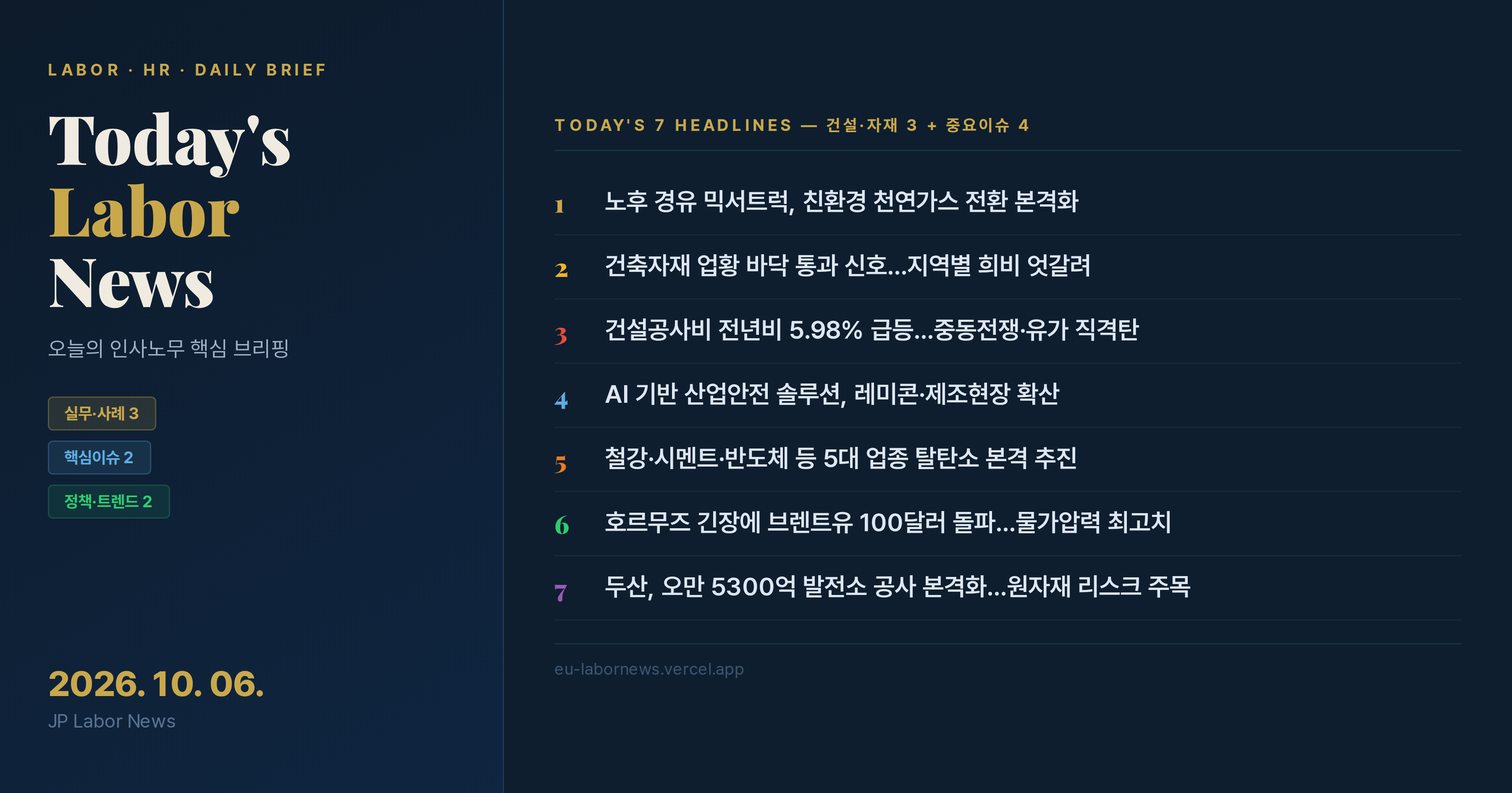
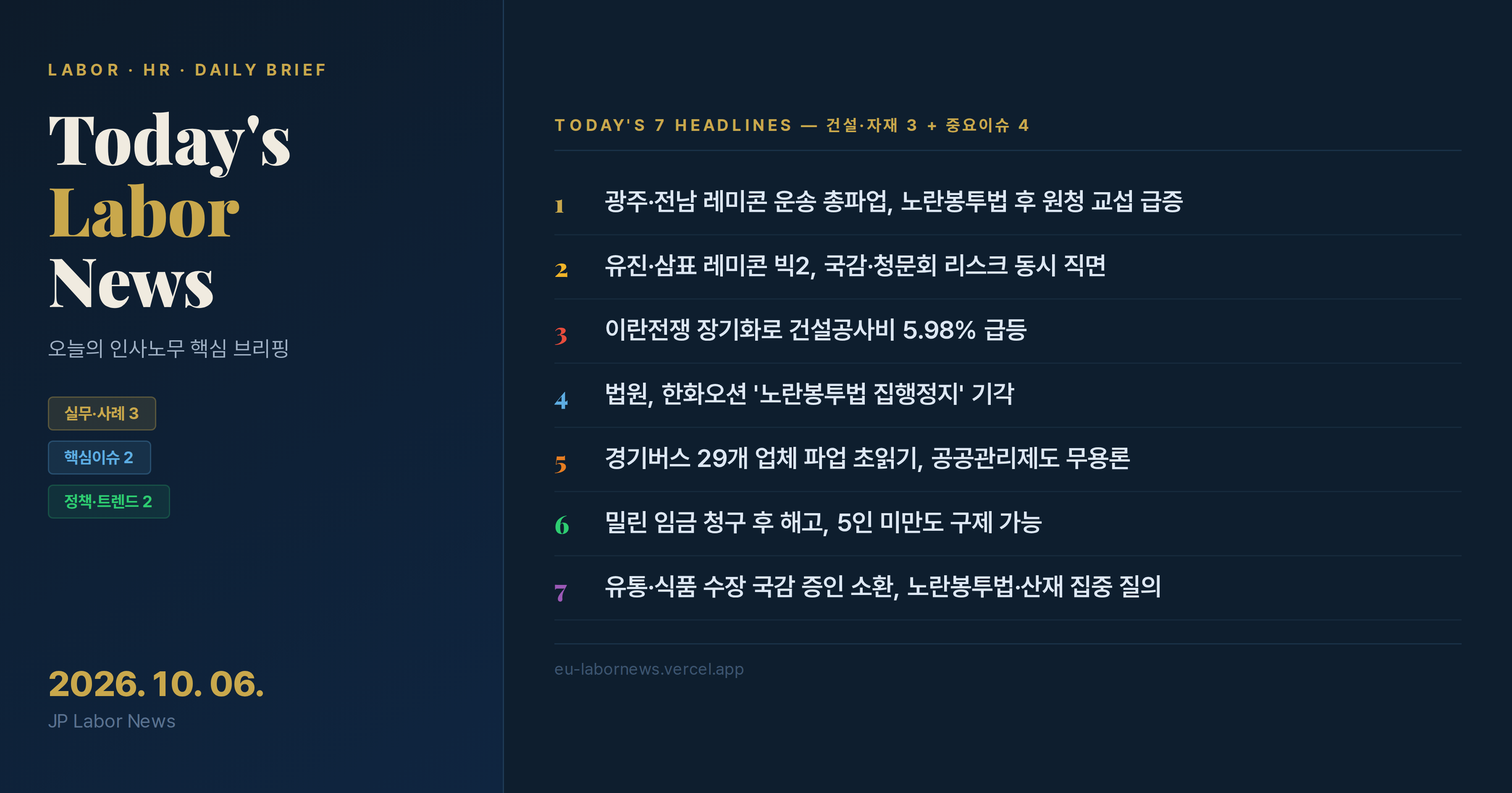
Auto: 20261006 텔레그램 카드뉴스 자동 생성

diff --git a/20261006/labornews_con_20261006.html b/20261006/labornews_con_20261006.html
@@ -111,51 +111,51 @@ body{background:var(--navy);color:var(--text-body);font-family:'Apple SD Gothic 
   <div class="headline-list"><a class="headline-item" href="#news1">
   <div class="headline-num">1</div>
   <div class="headline-content">
-    <div class="headline-source">📰 가스신문 · 2026.10.06</div>
-    <div class="headline-title">노후 경유 믹서트럭, 친환경 천연가스 전환 본격화</div>
+    <div class="headline-source">📰 한국건설신문 · 2026.10.01</div>
+    <div class="headline-title">광주·전남 레미콘 운송 총파업, 노란봉투법 후 원청 교섭 급증</div>
     <span class="headline-tag tag-high">🔴 핵심 이슈</span>
   </div>
 </a><a class="headline-item" href="#news2">
   <div class="headline-num">2</div>
   <div class="headline-content">
-    <div class="headline-source">📰 핀포인트뉴스 · 2026.10.05</div>
-    <div class="headline-title">건축자재 업황 바닥 통과 신호…지역별 희비 엇갈려</div>
-    <span class="headline-tag tag-med">⚠ 주목</span>
+    <div class="headline-source">📰 뉴스핌 · 2026.10.02</div>
+    <div class="headline-title">유진·삼표 레미콘 빅2, 국감·청문회 리스크 동시 직면</div>
+    <span class="headline-tag tag-high">🔴 핵심 이슈</span>
   </div>
 </a><a class="headline-item" href="#news3">
   <div class="headline-num">3</div>
   <div class="headline-content">
     <div class="headline-source">📰 메트로신문 · 2026.10.06</div>
-    <div class="headline-title">건설공사비 전년비 5.98% 급등…중동전쟁·유가 직격탄</div>
+    <div class="headline-title">이란전쟁 장기화로 건설공사비 5.98% 급등</div>
     <span class="headline-tag tag-high">🔴 핵심 이슈</span>
   </div>
 </a><a class="headline-item" href="#news4">
   <div class="headline-num">4</div>
   <div class="headline-content">
-    <div class="headline-source">📰 딜사이트 · 2026.10.05</div>
-    <div class="headline-title">AI 기반 산업안전 솔루션, 레미콘·제조현장 확산</div>
-    <span class="headline-tag tag-info">ℹ 참고</span>
+    <div class="headline-source">📰 경상일보 · 2026.10.06</div>
+    <div class="headline-title">법원, 한화오션 '노란봉투법 집행정지' 기각</div>
+    <span class="headline-tag tag-high">🔴 핵심 이슈</span>
   </div>
 </a><a class="headline-item" href="#news5">
   <div class="headline-num">5</div>
   <div class="headline-content">
-    <div class="headline-source">📰 기후부 · 2026.10.01</div>
-    <div class="headline-title">철강·시멘트·반도체 등 5대 업종 탈탄소 본격 추진</div>
+    <div class="headline-source">📰 경기일보 · 2026.10.05</div>
+    <div class="headline-title">경기버스 29개 업체 파업 초읽기, 공공관리제도 무용론</div>
     <span class="headline-tag tag-high">🔴 핵심 이슈</span>
   </div>
 </a><a class="headline-item" href="#news6">
   <div class="headline-num">6</div>
   <div class="headline-content">
-    <div class="headline-source">📰 토큰포스트 · 2026.10.06</div>
-    <div class="headline-title">호르무즈 긴장에 브렌트유 100달러 돌파…물가압력 최고치</div>
-    <span class="headline-tag tag-med">⚠ 주목</span>
+    <div class="headline-source">📰 매일노동뉴스 · 2026.10.05</div>
+    <div class="headline-title">밀린 임금 청구 후 해고, 5인 미만도 구제 가능</div>
+    <span class="headline-tag tag-med">⚠ 주의 필요</span>
   </div>
 </a><a class="headline-item" href="#news7">
   <div class="headline-num">7</div>
   <div class="headline-content">
-    <div class="headline-source">📰 지앤이뉴스 · 2026.10.06</div>
-    <div class="headline-title">두산, 오만 5300억 발전소 공사 본격화…원자재 리스크 주목</div>
-    <span class="headline-tag tag-med">⚠ 주목</span>
+    <div class="headline-source">📰 뉴시스 · 2026.10.05</div>
+    <div class="headline-title">유통·식품 수장 국감 증인 소환, 노란봉투법·산재 집중 질의</div>
+    <span class="headline-tag tag-med">⚠ 주의 필요</span>
   </div>
 </a></div>
 </section>
@@ -166,33 +166,33 @@ body{background:var(--navy);color:var(--text-body);font-family:'Apple SD Gothic 
   </div>
   <span class="sb-count">3장</span>
 </div><div class="news-card" id="news1">
-  <div class="source-bar"><span class="source-name">📰 가스신문</span><span class="source-date">2026.10.06</span></div>
+  <div class="source-bar"><span class="source-name">📰 한국건설신문</span><span class="source-date">2026.10.01</span></div>
   <div class="card-inner">
     <div class="risk-tag risk-high">🔴 핵심 이슈</div>
-    <div class="card-category">레미콘</div>
-    <h2 class="card-title">노후 경유 믹서트럭, 친환경 천연가스 전환 본격화</h2>
-    <ul class="bullet-list"><li>전국 200개 CNG 충전소 활용, 15km 이내 레미콘공장 중심 저공해 천연가스 믹서트럭 보급 추진</li><li>노후 경유 믹서트럭의 친환경 전환, 저공해엔진 인증제도 도입으로 업계 전환 가속</li><li>환경규제 강화에 따른 레미콘업계 차량 교체 비용 부담 증가 전망</li></ul>
-    <div class="insight"><div class="insight-label">실무 시사점</div><div class="insight-text">레미콘 운송사업자는 향후 환경규제 대응 위해 차량 교체·전환 계획 수립 필요. 정부 보조금 및 지원정책 모니터링 필수.</div></div>
+    <div class="card-category">레미콘 노조</div>
+    <h2 class="card-title">광주·전남 레미콘 운송 총파업, 노란봉투법 후 원청 교섭 급증</h2>
+    <ul class="bullet-list"><li>광주·전남 레미콘 운송 노동자 총파업 돌입, 현장 가동 중단 위기</li><li>노란봉투법 시행 후 하청노조 1,161곳이 원청 439곳에 교섭 요구</li><li>노동위 판단 113곳 중 103곳(91.2%)에서 원청 사용자성 인정</li></ul>
+    <div class="insight"><div class="insight-label">실무 시사점</div><div class="insight-text">레미콘 업계 원청 사용자성 인정률이 90% 초과. 하청 운송노조 교섭 요구 시 즉시 대응 체계 구축 필수.</div></div>
   </div>
-  <div class="read-more"><span class="wm-small">공인노무사 JP</span><a href="https://www.gasnews.com/news/articleView.html?idxno=127038" target="_blank">자세히 보기</a></div>
+  <div class="read-more"><span class="wm-small">공인노무사 JP</span><a href="https://www.koscaj.com/news/articleView.html?idxno=326776" target="_blank">자세히 보기</a></div>
 </div><div class="news-card" id="news2">
-  <div class="source-bar"><span class="source-name">📰 핀포인트뉴스</span><span class="source-date">2026.10.05</span></div>
+  <div class="source-bar"><span class="source-name">📰 뉴스핌</span><span class="source-date">2026.10.02</span></div>
   <div class="card-inner">
-    <div class="risk-tag risk-med">⚠ 주목</div>
-    <div class="card-category">건자재</div>
-    <h2 class="card-title">건축자재 업황 바닥 통과 신호…지역별 희비 엇갈려</h2>
-    <ul class="bullet-list"><li>부산산업·모헨즈·서산·유진기업 등 레미콘 관련 종목, 지역 건설 현장 가동률에 따라 주가 방향성 분화</li><li>페인트·도료 업계는 자동차·조선 등 전방산업 수요에 따라 종목별 향방 엇갈림</li><li>건축자재 업황 회복 조짐 속 스마트팜·신규사업 다각화 기업에 관심 집중</li></ul>
-    <div class="insight"><div class="insight-label">실무 시사점</div><div class="insight-text">건설경기 회복 시그널에도 지역·품목별 수요 편차 심화. 레미콘·건자재 업체는 지역 프로젝트 동향 면밀히 파악해야.</div></div>
+    <div class="risk-tag risk-high">🔴 핵심 이슈</div>
+    <div class="card-category">레미콘 업계</div>
+    <h2 class="card-title">유진·삼표 레미콘 빅2, 국감·청문회 리스크 동시 직면</h2>
+    <ul class="bullet-list"><li>유진·삼표그룹 국정감사와 청문회 동시 소환 예정</li><li>건설경기 침체 속 레미콘 업계 전체가 어려운 상황</li><li>시멘트공장 환경호르몬 검출 이슈, 업계 전체 직결 문제로 확산</li></ul>
+    <div class="insight"><div class="insight-label">실무 시사점</div><div class="insight-text">레미콘 빅2 기업 국감·청문회 리스크 가중. 환경·안전·노무 이슈 사전 점검 및 답변 자료 준비 시급.</div></div>
   </div>
-  <div class="read-more"><span class="wm-small">공인노무사 JP</span><a href="https://www.pinpointnews.co.kr/news/articleView.html?idxno=492723" target="_blank">자세히 보기</a></div>
+  <div class="read-more"><span class="wm-small">공인노무사 JP</span><a href="https://www.newspim.com/news/view/20261002000897" target="_blank">자세히 보기</a></div>
 </div><div class="news-card" id="news3">
   <div class="source-bar"><span class="source-name">📰 메트로신문</span><span class="source-date">2026.10.06</span></div>
   <div class="card-inner">
     <div class="risk-tag risk-high">🔴 핵심 이슈</div>
-    <div class="card-category">건설공사비</div>
-    <h2 class="card-title">건설공사비 전년비 5.98% 급등…중동전쟁·유가 직격탄</h2>
-    <ul class="bullet-list"><li>8월 건설공사비지수 138.74, 전월 대비 0.02%·전년 동월 대비 5.98% 상승</li><li>이란전쟁 장기화로 국제유가·원자재 가격 급등이 공사비에 본격 반영</li><li>건설사·발주처 간 공사비 분쟁 증가, 하도급 대금 조정 요구 확산 예상</li></ul>
-    <div class="insight"><div class="insight-label">실무 시사점</div><div class="insight-text">공사비 급등에 따른 하도급 단가 조정 요구 급증 전망. 계약서 물가조정 조항 점검 및 협상 대응 체계 구축 시급.</div></div>
+    <div class="card-category">건설자재</div>
+    <h2 class="card-title">이란전쟁 장기화로 건설공사비 5.98% 급등</h2>
+    <ul class="bullet-list"><li>8월 건설공사비지수 138.74, 전년 동월 대비 5.98% 상승</li><li>이란전쟁 장기화로 국제유가·원자재가격 급등 본격 반영</li><li>전월 대비로는 0.02% 상승, 상승세 지속 전망</li></ul>
+    <div class="insight"><div class="insight-label">실무 시사점</div><div class="insight-text">중동 정세 불안으로 건설자재비 급등 지속. 공사 원가 재산정 및 계약 조정 조항 사전 검토 필요.</div></div>
   </div>
   <div class="read-more"><span class="wm-small">공인노무사 JP</span><a href="http://www.metroseoul.co.kr/article/20261005500239" target="_blank">자세히 보기</a></div>
 </div><div class="section-break section-break-industry sb-industry">
@@ -202,25 +202,25 @@ body{background:var(--navy);color:var(--text-body);font-family:'Apple SD Gothic 
   </div>
   <span class="sb-count">2장</span>
 </div><div class="news-card" id="news4">
-  <div class="source-bar"><span class="source-name">📰 딜사이트</span><span class="source-date">2026.10.05</span></div>
-  <div class="card-inner">
-    <div class="risk-tag risk-info">ℹ 참고</div>
-    <div class="card-category">산업안전</div>
-    <h2 class="card-title">AI 기반 산업안전 솔루션, 레미콘·제조현장 확산</h2>
-    <ul class="bullet-list"><li>사제파트너스, 산업안전 AI 스타트업 가디언AI에 투자…삼표산업 인천 레미콘공장·당진 슬래그공장 테스트베드 활용</li><li>제조 현장 실시간 위험 감지 및 예방 시스템 구축, 중대재해처벌법 대응 솔루션 수요 증가</li><li>레미콘·시멘트 등 고위험 제조업종 중심 AI 안전관리 기술 도입 가속화</li></ul>
-    <div class="insight"><div class="insight-label">실무 시사점</div><div class="insight-text">중대재해처벌법 시행 이후 AI 안전관리 솔루션 도입 확대 추세. 고위험 제조·건설업 사업장은 기술 도입 검토 필요.</div></div>
-  </div>
-  <div class="read-more"><span class="wm-small">공인노무사 JP</span><a href="https://dealsite.co.kr/articles/170090" target="_blank">자세히 보기</a></div>
-</div><div class="news-card" id="news5">
-  <div class="source-bar"><span class="source-name">📰 기후부</span><span class="source-date">2026.10.01</span></div>
+  <div class="source-bar"><span class="source-name">📰 경상일보</span><span class="source-date">2026.10.06</span></div>
   <div class="card-inner">
     <div class="risk-tag risk-high">🔴 핵심 이슈</div>
-    <div class="card-category">탈탄소정책</div>
-    <h2 class="card-title">철강·시멘트·반도체 등 5대 업종 탈탄소 본격 추진</h2>
-    <ul class="bullet-list"><li>기후부, 철강·석유화학·정유·시멘트·반도체 등 5대 다배출 업종 대상 탈탄소 로드맵 추진</li><li>산업용 전기요금 지역별 전력 수급 반영 체계로 개편, 지역별 요금 격차 발생 가능성</li><li>전력 다소비 제조업의 에너지 비용 부담 증가, 공장 입지 전략 재검토 필요</li></ul>
-    <div class="insight"><div class="insight-label">실무 시사점</div><div class="insight-text">5대 다배출 업종 사업장은 탄소배출 감축 계획 수립 및 지역별 전기요금 변동 대비 필수. 에너지 관리 인력 보강 검토해야.</div></div>
+    <div class="card-category">노란봉투법</div>
+    <h2 class="card-title">법원, 한화오션 '노란봉투법 집행정지' 기각</h2>
+    <ul class="bullet-list"><li>노란봉투법 시행 후 첫 소송, 한화오션 집행정지 신청 법원 기각</li><li>원청이 집행정지로 교섭 지연 전략 통하지 않음 첫 판례</li><li>원청 사용자성 인정 시 즉시 교섭 대응 불가피</li></ul>
+    <div class="insight"><div class="insight-label">실무 시사점</div><div class="insight-text">노란봉투법 집행정지 전략 무용화. 원청 사용자성 인정 시 교섭 거부 불가, 즉각 대응 체계 구축 필수.</div></div>
   </div>
-  <div class="read-more"><span class="wm-small">공인노무사 JP</span><a href="https://www.mediapen.com/news/view/1127326" target="_blank">자세히 보기</a></div>
+  <div class="read-more"><span class="wm-small">공인노무사 JP</span><a href="https://www.gnnews.co.kr/news/articleView.html?idxno=646861" target="_blank">자세히 보기</a></div>
+</div><div class="news-card" id="news5">
+  <div class="source-bar"><span class="source-name">📰 경기일보</span><span class="source-date">2026.10.05</span></div>
+  <div class="card-inner">
+    <div class="risk-tag risk-high">🔴 핵심 이슈</div>
+    <div class="card-category">파업</div>
+    <h2 class="card-title">경기버스 29개 업체 파업 초읽기, 공공관리제도 무용론</h2>
+    <ul class="bullet-list"><li>경기 버스 29개 업체 단체교섭 결렬, 파업 초읽기 돌입</li><li>공공관리제 시행 사업장도 파업 리스크는 동일하게 발생</li><li>조정 절차 진행 중이나 대체 운송수단 비상 대응 필요</li></ul>
+    <div class="insight"><div class="insight-label">실무 시사점</div><div class="insight-text">공공관리제 시행 사업장도 파업 리스크 상존. 조정 절차 중에도 비상 운송 대책 사전 수립 필수.</div></div>
+  </div>
+  <div class="read-more"><span class="wm-small">공인노무사 JP</span><a href="https://www.kyeonggi.com/article/20261005580273" target="_blank">자세히 보기</a></div>
 </div><div class="section-break section-break-policy sb-policy">
   <div class="sb-body">
     <div class="sb-title">트렌드·정책</div>
@@ -228,25 +228,25 @@ body{background:var(--navy);color:var(--text-body);font-family:'Apple SD Gothic 
   </div>
   <span class="sb-count">2장</span>
 </div><div class="news-card" id="news6">
-  <div class="source-bar"><span class="source-name">📰 토큰포스트</span><span class="source-date">2026.10.06</span></div>
+  <div class="source-bar"><span class="source-name">📰 매일노동뉴스</span><span class="source-date">2026.10.05</span></div>
   <div class="card-inner">
-    <div class="risk-tag risk-med">⚠ 주목</div>
-    <div class="card-category">글로벌경제</div>
-    <h2 class="card-title">호르무즈 긴장에 브렌트유 100달러 돌파…물가압력 최고치</h2>
-    <ul class="bullet-list"><li>이란 호르무즈 조건부 개방 제시, 브렌트유 100.32달러 기록…중동 긴장 지속</li><li>원자재·서비스 가격지수 74로 2022년 7월 이후 최고치, 글로벌 물가압력 급증</li><li>AI 데이터센터 건설 강행에 따른 전기요금 인상도 제조업 비용부담 요인</li></ul>
-    <div class="insight"><div class="insight-label">실무 시사점</div><div class="insight-text">유가·원자재 급등으로 제조·물류업 원가부담 심화. 가격 전가 어려운 중소 하청업체는 수익성 악화 대비 필요.</div></div>
+    <div class="risk-tag risk-med">⚠ 주의 필요</div>
+    <div class="card-category">부당해고</div>
+    <h2 class="card-title">밀린 임금 청구 후 해고, 5인 미만도 구제 가능</h2>
+    <ul class="bullet-list"><li>임금 청구권 행사 후 해고는 부당해고로 인정 가능성 높음</li><li>5인 미만 사업장도 부당해고 구제 신청 가능</li><li>징계 시 절차와 사유의 객관성 확보 필수</li></ul>
+    <div class="insight"><div class="insight-label">실무 시사점</div><div class="insight-text">임금 청구 후 해고는 보복 해고로 판단될 위험. 5인 미만도 구제 대상이므로 징계 절차 객관성 확보 필수.</div></div>
   </div>
-  <div class="read-more"><span class="wm-small">공인노무사 JP</span><a href="https://www.tokenpost.kr/news/economy/418626" target="_blank">자세히 보기</a></div>
+  <div class="read-more"><span class="wm-small">공인노무사 JP</span><a href="https://www.labortoday.co.kr/news/articleView.html?idxno=237067" target="_blank">자세히 보기</a></div>
 </div><div class="news-card" id="news7">
-  <div class="source-bar"><span class="source-name">📰 지앤이뉴스</span><span class="source-date">2026.10.06</span></div>
+  <div class="source-bar"><span class="source-name">📰 뉴시스</span><span class="source-date">2026.10.05</span></div>
   <div class="card-inner">
-    <div class="risk-tag risk-med">⚠ 주목</div>
-    <div class="card-category">해외건설</div>
-    <h2 class="card-title">두산, 오만 5300억 발전소 공사 본격화…원자재 리스크 주목</h2>
-    <ul class="bullet-list"><li>오만 둠 890MW 가스복합발전소 토목 착공, 두산 5300억 규모 공사 인프라 구축 단계 진입</li><li>중동 공급망 차질·글로벌 원자재 가격 급등 시 공정 지연 및 EPC 수익성 악화 우려</li><li>해외 대형 프로젝트의 원가 관리·현지 인력 수급 리스크 증가</li></ul>
-    <div class="insight"><div class="insight-label">실무 시사점</div><div class="insight-text">해외 EPC 프로젝트 수행 기업은 원자재 가격 변동·공급망 리스크 헤지 전략 필수. 현지 인력 노무관리 체계 강화 필요.</div></div>
+    <div class="risk-tag risk-med">⚠ 주의 필요</div>
+    <div class="card-category">국정감사</div>
+    <h2 class="card-title">유통·식품 수장 국감 증인 소환, 노란봉투법·산재 집중 질의</h2>
+    <ul class="bullet-list"><li>유통·식품업계 최고경영진 줄줄이 국감 증인 소환</li><li>노란봉투법·산재·규제 이슈에 집중 질의 예상</li><li>해당 업종 산재 예방 체계·노사관계 현황 사전 점검 필요</li></ul>
+    <div class="insight"><div class="insight-label">실무 시사점</div><div class="insight-text">국감 증인 소환 시 산재·노조 이슈 집중 질의 예상. 산재 예방 체계·노사관계 점검 및 답변 자료 사전 준비 필수.</div></div>
   </div>
-  <div class="read-more"><span class="wm-small">공인노무사 JP</span><a href="https://www.g-enews.com/view.php?ud=20261006062503474fda4f5ab74_1" target="_blank">자세히 보기</a></div>
+  <div class="read-more"><span class="wm-small">공인노무사 JP</span><a href="https://www.newsis.com/view/NISX20261005_0003814183" target="_blank">자세히 보기</a></div>
 </div>
 
 <!-- ── 공유 바: 마지막 카드 아래, 푸터 위 ── -->

diff --git a/20261006/send_con_20261006.html b/20261006/send_con_20261006.html
@@ -7,8 +7,8 @@
   <div class="icon">📨</div>
   <div class="title">오늘의 카드뉴스 발송</div>
   <div class="date">2026. 10. 06. 화요일</div>
-  <div class="news-list"><div class="news-list-title">오늘의 헤드라인</div><div class="news-item"><span class="news-num">1</span>노후 경유 믹서트럭, 친환경 천연가스 전환 본격화</div><div class="news-item"><span class="news-num">2</span>건축자재 업황 바닥 통과 신호…지역별 희비 엇갈려</div><div class="news-item"><span class="news-num">3</span>건설공사비 전년비 5.98% 급등…중동전쟁·유가 직격탄</div><div class="news-item"><span class="news-num">4</span>AI 기반 산업안전 솔루션, 레미콘·제조현장 확산</div><div class="news-item"><span class="news-num">5</span>철강·시멘트·반도체 등 5대 업종 탈탄소 본격 추진</div><div class="news-item"><span class="news-num">6</span>호르무즈 긴장에 브렌트유 100달러 돌파…물가압력 최고치</div><div class="news-item"><span class="news-num">7</span>두산, 오만 5300억 발전소 공사 본격화…원자재 리스크 주목</div></div>
-  <a class="btn" href="https://api.telegram.org/bot8410721070:AAFmLPGoM39IsMYuIqr7Hbga-vi9gD2hBqk/sendPhoto?chat_id=%40jplabornews&photo=https%3A//eu-labornews.vercel.app/thumbnail_telegram.png%3Fv%3D20261006&caption=%F0%9F%93%8B%20%EC%98%A4%EB%8A%98%EC%9D%98%20%EC%9D%B8%EC%82%AC%EB%85%B8%EB%AC%B4%20%EB%B8%8C%EB%A6%AC%ED%95%91%20%E2%80%94%202026.%2010.%2006.%20%28%ED%99%94%29%0A%0A1%EF%B8%8F%E2%83%A3%20%EB%85%B8%ED%9B%84%20%EA%B2%BD%EC%9C%A0%20%EB%AF%B9%EC%84%9C%ED%8A%B8%EB%9F%AD%2C%20%EC%B9%9C%ED%99%98%EA%B2%BD%20%EC%B2%9C%EC%97%B0%EA%B0%80%EC%8A%A4%20%EC%A0%84%ED%99%98%20%EB%B3%B8%EA%B2%A9%ED%99%94%0A2%EF%B8%8F%E2%83%A3%20%EA%B1%B4%EC%B6%95%EC%9E%90%EC%9E%AC%20%EC%97%85%ED%99%A9%20%EB%B0%94%EB%8B%A5%20%ED%86%B5%EA%B3%BC%20%EC%8B%A0%ED%98%B8%E2%80%A6%EC%A7%80%EC%97%AD%EB%B3%84%20%ED%9D%AC%EB%B9%84%20%EC%97%87%EA%B0%88%EB%A0%A4%0A3%EF%B8%8F%E2%83%A3%20%EA%B1%B4%EC%84%A4%EA%B3%B5%EC%82%AC%EB%B9%84%20%EC%A0%84%EB%85%84%EB%B9%84%205.98%25%20%EA%B8%89%EB%93%B1%E2%80%A6%EC%A4%91%EB%8F%99%EC%A0%84%EC%9F%81%C2%B7%EC%9C%A0%EA%B0%80%20%EC%A7%81%EA%B2%A9%ED%83%84%0A4%EF%B8%8F%E2%83%A3%20AI%20%EA%B8%B0%EB%B0%98%20%EC%82%B0%EC%97%85%EC%95%88%EC%A0%84%20%EC%86%94%EB%A3%A8%EC%85%98%2C%20%EB%A0%88%EB%AF%B8%EC%BD%98%C2%B7%EC%A0%9C%EC%A1%B0%ED%98%84%EC%9E%A5%20%ED%99%95%EC%82%B0%0A5%EF%B8%8F%E2%83%A3%20%EC%B2%A0%EA%B0%95%C2%B7%EC%8B%9C%EB%A9%98%ED%8A%B8%C2%B7%EB%B0%98%EB%8F%84%EC%B2%B4%20%EB%93%B1%205%EB%8C%80%20%EC%97%85%EC%A2%85%20%ED%83%88%ED%83%84%EC%86%8C%20%EB%B3%B8%EA%B2%A9%20%EC%B6%94%EC%A7%84%0A6%EF%B8%8F%E2%83%A3%20%ED%98%B8%EB%A5%B4%EB%AC%B4%EC%A6%88%20%EA%B8%B4%EC%9E%A5%EC%97%90%20%EB%B8%8C%EB%A0%8C%ED%8A%B8%EC%9C%A0%20100%EB%8B%AC%EB%9F%AC%20%EB%8F%8C%ED%8C%8C%E2%80%A6%EB%AC%BC%EA%B0%80%EC%95%95%EB%A0%A5%20%EC%B5%9C%EA%B3%A0%EC%B9%98%0A7%EF%B8%8F%E2%83%A3%20%EB%91%90%EC%82%B0%2C%20%EC%98%A4%EB%A7%8C%205300%EC%96%B5%20%EB%B0%9C%EC%A0%84%EC%86%8C%20%EA%B3%B5%EC%82%AC%20%EB%B3%B8%EA%B2%A9%ED%99%94%E2%80%A6%EC%9B%90%EC%9E%90%EC%9E%AC%20%EB%A6%AC%EC%8A%A4%ED%81%AC%20%EC%A3%BC%EB%AA%A9%0A%0A%F0%9F%94%97%20%EC%A0%84%EC%B2%B4%20%EC%B9%B4%EB%93%9C%EB%89%B4%EC%8A%A4%3A%0Ahttps%3A//eu-labornews.vercel.app/20261006/labornews_con_20261006.html" target="_blank">📲 텔레그램으로 발송하기</a>
+  <div class="news-list"><div class="news-list-title">오늘의 헤드라인</div><div class="news-item"><span class="news-num">1</span>광주·전남 레미콘 운송 총파업, 노란봉투법 후 원청 교섭 급증</div><div class="news-item"><span class="news-num">2</span>유진·삼표 레미콘 빅2, 국감·청문회 리스크 동시 직면</div><div class="news-item"><span class="news-num">3</span>이란전쟁 장기화로 건설공사비 5.98% 급등</div><div class="news-item"><span class="news-num">4</span>법원, 한화오션 '노란봉투법 집행정지' 기각</div><div class="news-item"><span class="news-num">5</span>경기버스 29개 업체 파업 초읽기, 공공관리제도 무용론</div><div class="news-item"><span class="news-num">6</span>밀린 임금 청구 후 해고, 5인 미만도 구제 가능</div><div class="news-item"><span class="news-num">7</span>유통·식품 수장 국감 증인 소환, 노란봉투법·산재 집중 질의</div></div>
+  <a class="btn" href="https://api.telegram.org/bot8410721070:AAFmLPGoM39IsMYuIqr7Hbga-vi9gD2hBqk/sendPhoto?chat_id=%40jplabornews&photo=https%3A//eu-labornews.vercel.app/thumbnail_telegram.png%3Fv%3D20261006&caption=%F0%9F%93%8B%20%EC%98%A4%EB%8A%98%EC%9D%98%20%EC%9D%B8%EC%82%AC%EB%85%B8%EB%AC%B4%20%EB%B8%8C%EB%A6%AC%ED%95%91%20%E2%80%94%202026.%2010.%2006.%20%28%ED%99%94%29%0A%0A1%EF%B8%8F%E2%83%A3%20%EA%B4%91%EC%A3%BC%C2%B7%EC%A0%84%EB%82%A8%20%EB%A0%88%EB%AF%B8%EC%BD%98%20%EC%9A%B4%EC%86%A1%20%EC%B4%9D%ED%8C%8C%EC%97%85%2C%20%EB%85%B8%EB%9E%80%EB%B4%89%ED%88%AC%EB%B2%95%20%ED%9B%84%20%EC%9B%90%EC%B2%AD%20%EA%B5%90%EC%84%AD%20%EA%B8%89%EC%A6%9D%0A2%EF%B8%8F%E2%83%A3%20%EC%9C%A0%EC%A7%84%C2%B7%EC%82%BC%ED%91%9C%20%EB%A0%88%EB%AF%B8%EC%BD%98%20%EB%B9%852%2C%20%EA%B5%AD%EA%B0%90%C2%B7%EC%B2%AD%EB%AC%B8%ED%9A%8C%20%EB%A6%AC%EC%8A%A4%ED%81%AC%20%EB%8F%99%EC%8B%9C%20%EC%A7%81%EB%A9%B4%0A3%EF%B8%8F%E2%83%A3%20%EC%9D%B4%EB%9E%80%EC%A0%84%EC%9F%81%20%EC%9E%A5%EA%B8%B0%ED%99%94%EB%A1%9C%20%EA%B1%B4%EC%84%A4%EA%B3%B5%EC%82%AC%EB%B9%84%205.98%25%20%EA%B8%89%EB%93%B1%0A4%EF%B8%8F%E2%83%A3%20%EB%B2%95%EC%9B%90%2C%20%ED%95%9C%ED%99%94%EC%98%A4%EC%85%98%20%27%EB%85%B8%EB%9E%80%EB%B4%89%ED%88%AC%EB%B2%95%20%EC%A7%91%ED%96%89%EC%A0%95%EC%A7%80%27%20%EA%B8%B0%EA%B0%81%0A5%EF%B8%8F%E2%83%A3%20%EA%B2%BD%EA%B8%B0%EB%B2%84%EC%8A%A4%2029%EA%B0%9C%20%EC%97%85%EC%B2%B4%20%ED%8C%8C%EC%97%85%20%EC%B4%88%EC%9D%BD%EA%B8%B0%2C%20%EA%B3%B5%EA%B3%B5%EA%B4%80%EB%A6%AC%EC%A0%9C%EB%8F%84%20%EB%AC%B4%EC%9A%A9%EB%A1%A0%0A6%EF%B8%8F%E2%83%A3%20%EB%B0%80%EB%A6%B0%20%EC%9E%84%EA%B8%88%20%EC%B2%AD%EA%B5%AC%20%ED%9B%84%20%ED%95%B4%EA%B3%A0%2C%205%EC%9D%B8%20%EB%AF%B8%EB%A7%8C%EB%8F%84%20%EA%B5%AC%EC%A0%9C%20%EA%B0%80%EB%8A%A5%0A7%EF%B8%8F%E2%83%A3%20%EC%9C%A0%ED%86%B5%C2%B7%EC%8B%9D%ED%92%88%20%EC%88%98%EC%9E%A5%20%EA%B5%AD%EA%B0%90%20%EC%A6%9D%EC%9D%B8%20%EC%86%8C%ED%99%98%2C%20%EB%85%B8%EB%9E%80%EB%B4%89%ED%88%AC%EB%B2%95%C2%B7%EC%82%B0%EC%9E%AC%20%EC%A7%91%EC%A4%91%20%EC%A7%88%EC%9D%98%0A%0A%F0%9F%94%97%20%EC%A0%84%EC%B2%B4%20%EC%B9%B4%EB%93%9C%EB%89%B4%EC%8A%A4%3A%0Ahttps%3A//eu-labornews.vercel.app/20261006/labornews_con_20261006.html" target="_blank">📲 텔레그램으로 발송하기</a>
   <a class="btn-view" href="https://eu-labornews.vercel.app/20261006/labornews_con_20261006.html" target="_blank">전체 카드뉴스 보기</a>
   <div class="notice">버튼을 클릭하면 텔레그램으로<br>헤드라인과 카드뉴스 링크가 전송됩니다.</div>
 </div></body>
